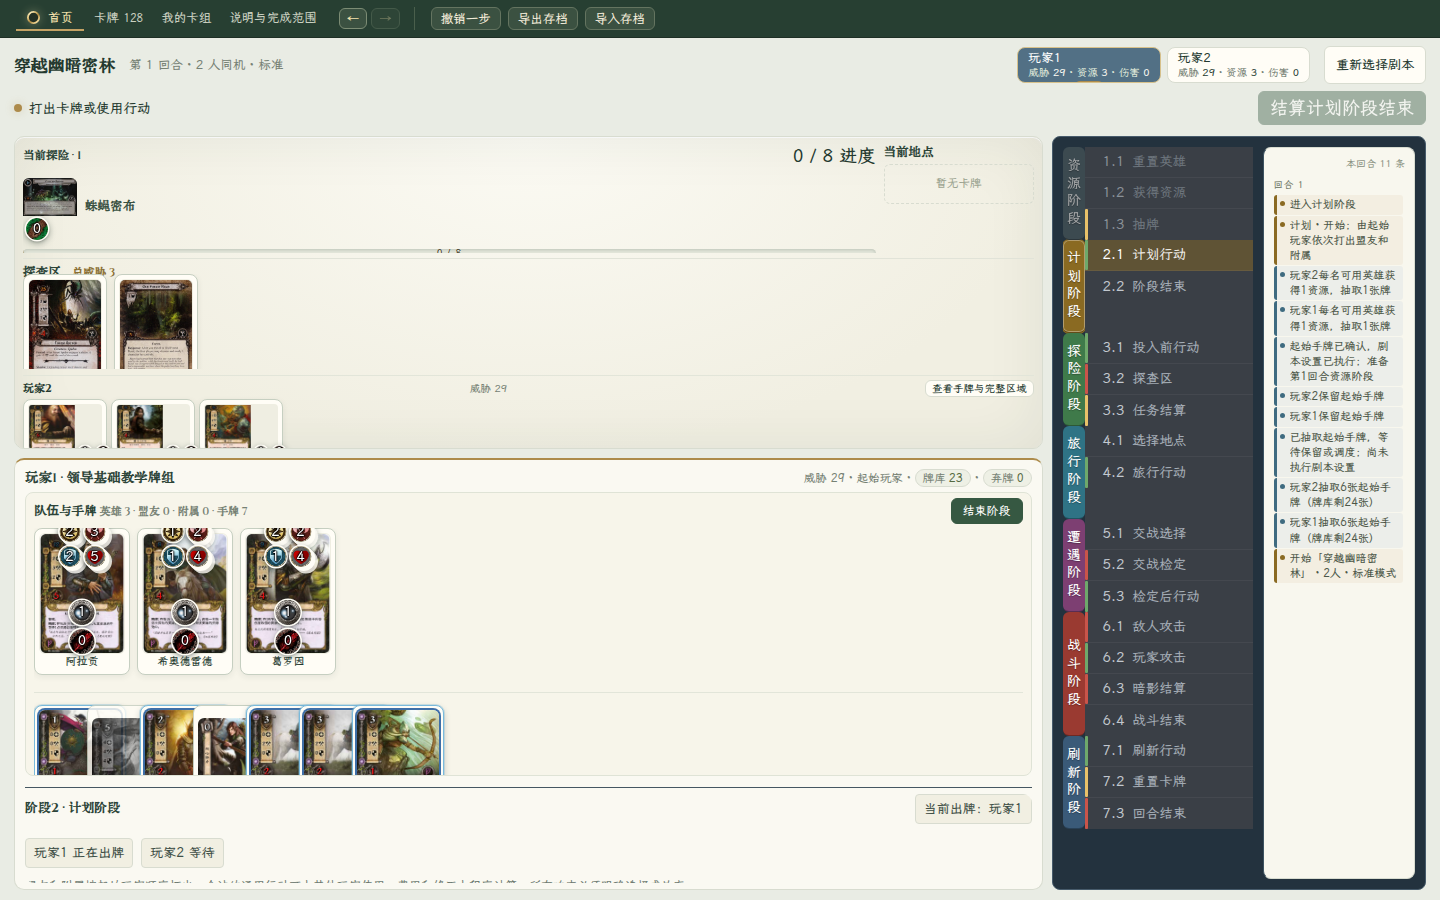
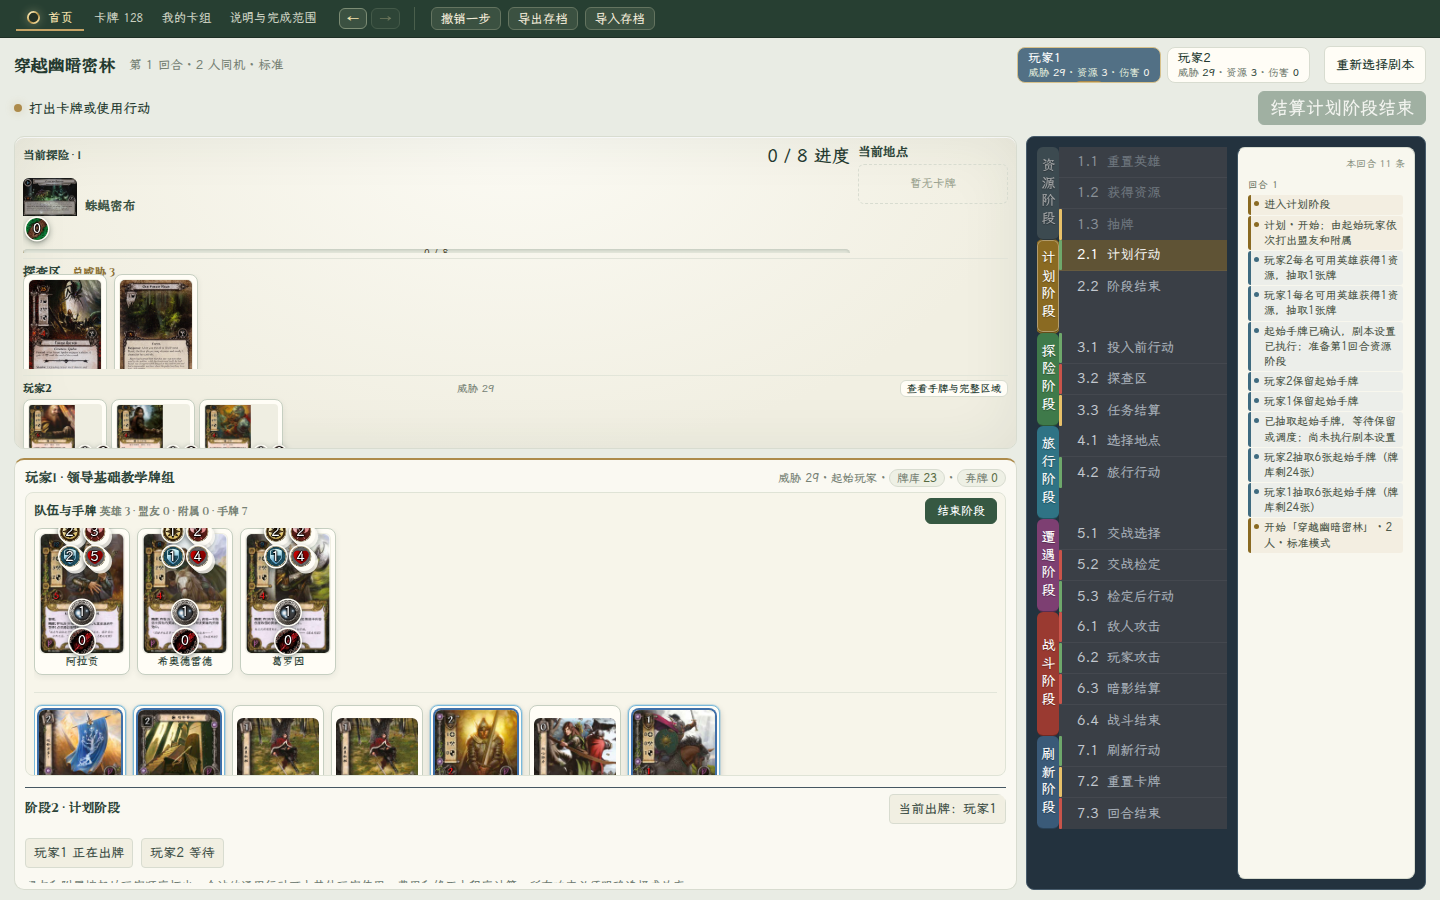
v0.15.61 玩家区与右栏不再互挤：手牌少就平铺、右栏加宽、阶段轴按屏高压缩到一次看全

Changed region(s): [[0.5312, 0.1556, 0.9688, 0.9956], [0.0312, 0.7778, 0.5, 0.8711], [0.3125, 0.4044, 0.3438, 0.4356]]

diff --git a/index.html b/index.html
@@ -107,7 +107,10 @@ body:has(.desktop-table) main{padding:16px 22px 32px}
 .operation-content .card-art{max-width:var(--card-w)}
 .rail-step{border-radius:6px}
 .deck-counts div{border-radius:6px}
-@media(min-width:1700px){:root{--card-w:140px}.table-card{width:var(--card-w);flex-basis:var(--card-w)}.peer-cards .table-card{width:var(--card-w);flex-basis:var(--card-w)}.tabletop-layout{grid-template-columns:minmax(0,1fr) 274px}}
+@media(min-width:1700px){:root{--card-w:140px}.table-card{width:var(--card-w);flex-basis:var(--card-w)}.peer-cards .table-card{width:var(--card-w);flex-basis:var(--card-w)}.tabletop-layout{grid-template-columns:minmax(0,1fr) 274px}
+/* v0.15.61：右栏原来在 1700+ 被压到 274px，比 1440 的 374px 还窄——
+   大屏上日志反而更难读。改为随视口增长，上限 460px。 */
+.tabletop-layout{grid-template-columns:minmax(0,1fr) clamp(374px,22vw,460px)}}
 @media(max-width:1100px){:root{--card-w:118px}.table-card{width:var(--card-w);flex-basis:var(--card-w)}.peer-cards .table-card{width:var(--card-w);flex-basis:var(--card-w)}}
 
 /* v0.14.5 operation dock as the single task bar: task label, confirmation
@@ -560,7 +563,10 @@ body:has(.desktop-table) .player-tabs button{height:36px;min-height:0;padding:2p
 /* ── 3. 四区网格 ─────────────────────────────────────────────────── */
 .tabletop-layout{
  display:grid;height:100%;min-height:0;gap:9px;
- grid-template-columns:minmax(0,1fr) clamp(320px,26vw,400px);
+ /* v0.15.61：右栏下限 320→400。实测 1440 下右栏 374px，其中阶段轴占 190px，
+   日志只剩 152px（文字实测 109px 宽）——一句话折成两行才放得下。
+   阶段轴本身 190px 够用（窗口编号 + 名称），多出来的宽度应该给日志。 */
+ grid-template-columns:minmax(0,1fr) clamp(400px,27vw,470px);
  /* v0.15.51：操作条去框后移到顶部通栏；右栏（阶段+日志）横跨两行，
     占据页面右侧全部高度。 */
  grid-template-rows:auto minmax(0,1fr) minmax(0,.92fr);
@@ -584,7 +590,10 @@ body:has(.desktop-table) .player-tabs button{height:36px;min-height:0;padding:2p
  grid-template-rows:minmax(0,1fr);
  background:#23323e;border:1px solid #475b6b;border-radius:8px;padding:10px}
 .tabletop-rail>.phase-rail-v{
- grid-column:1;grid-row:1;min-height:0;height:100%;overflow:auto}
+ grid-column:1;grid-row:1;min-height:0;height:100%;overflow:auto;
+ /* v0.15.61：显式声明为纵向 flex，让 .rail-grp 的 flex-grow 有作用对象。
+     不写这条时它是 block，flex-grow 被完全忽略，竖轴只到内容高（1920 下尾部空 230px）。 */
+ display:flex;flex-direction:column}
 .tabletop-rail>.table-log{grid-column:2;grid-row:1;min-height:0;min-width:0;
  border-left:1px solid #3d5361;padding-left:10px}
 /* v0.15.45：牌堆栏与说明框移除，右栏只剩竖轴 + 日志两列，日志直接占第二列 */
@@ -1123,7 +1132,10 @@ body:has(.desktop-table) .player-tabs button{height:36px;min-height:0;padding:2p
 /* 竖轴本体：连续的一条，阶段块首尾相接，中间不留缝 */
 .phase-log .phase-rail-v{
  display:flex;flex-direction:column;min-height:0;overflow:auto;
- scrollbar-width:none;border-radius:3px;background:#2b2f35}
+ scrollbar-width:none;border-radius:3px;background:#2b2f35;
+ /* 竖轴比内容高时（1920×1080 会空出约 230px），尾部用一层极淡的渐隐把「墙」收住，
+    避免看起来像被硬切断。纯装饰，不占布局、不接事件。 */
+ background-image:linear-gradient(to bottom,transparent calc(100% - 120px),rgba(0,0,0,.22))}
 .phase-log .phase-rail-v::-webkit-scrollbar{display:none}
 .rail-grp{display:grid;grid-template-columns:22px minmax(0,1fr);min-height:0;flex:0 0 auto}
 /* 手动收起的阶段：压成 15px 单行，只留窗口计数 */
@@ -1185,6 +1197,38 @@ body:has(.desktop-table) .player-tabs button{height:36px;min-height:0;padding:2p
 .rail-win.hit .rail-win-label{color:rgba(255,255,255,.9)}
 .rail-grp.past .rail-win .rail-win-no{color:#8a9198}
 .rail-grp.past .rail-win .rail-win-label{color:#6c747c}
+/* v0.15.61 短屏压缩：head 的 10px 上下内边距是 93px 高的元凶之一（竖排文字本身只有约 73px），
+   短屏收掉内边距与字号，整条竖轴才能跟着 win 行高一并降下来。 */
+@media(max-height:880px){
+ .rail-grp>.rail-head>span{padding:6px 0;font-size:12.5px;letter-spacing:3px}
+}
+@media(max-height:800px){
+ .rail-grp>.rail-head>span{padding:4px 0;font-size:12px;letter-spacing:2.5px}
+}
+@media(max-height:740px){
+ .rail-grp>.rail-head>span{padding:3px 0;font-size:11px;letter-spacing:2px}
+}
+/* v0.15.61：短屏自适应压缩行高。
+   20 条窗口 × 31px + 阶段头 = 682px 的内容高，只有 900px 以上的视口放得下；
+   1280×720 / 1366×768 / 1440×800 这些常见笔记本屏差 30~130px，只能滚动看——
+   而竖轴的价值就在「一眼看到当前在第几个窗口、后面还有什么」，滚动即失效。
+   这里按视口高度分档收行高：只压垂直留白与行高，不动字号，编号与窗口名照样读得清。
+   900px 以上维持 31px 原高度（分档用 max-height，不写 min-height，保证不反向覆盖大屏）。 */
+@media(max-height:880px){
+ .rail-wins{line-height:normal}
+ .rail-win{min-height:26px;line-height:25px;padding-right:6px}
+ .rail-win .rail-win-no{font-size:13px}
+ .rail-win .rail-win-label{font-size:12.5px}
+}
+@media(max-height:800px){
+ .rail-win{min-height:23px;line-height:22px}
+ .rail-win .rail-win-no{font-size:12px}
+ .rail-win .rail-win-label{font-size:12px}
+}
+@media(max-height:740px){
+ .rail-win{min-height:21px;line-height:20px}
+ .rail-win .rail-win-no,.rail-win .rail-win-label{font-size:11px}
+}
 /* 范围切换条：本回合 / 全部，以及当前条数。只用小号文字与细边，不抢阶段色带的视觉层级。 */
 .phase-log .log-bar{display:flex;align-items:center;gap:6px;min-width:0}
 .phase-log .log-scope{display:inline-flex;border:1px solid #d6dacd;border-radius:5px;overflow:hidden;background:#fdfcf5}
@@ -1408,6 +1452,22 @@ body:has(.desktop-table) .player-tabs button{height:36px;min-height:0;padding:2p
 .window-panel.compact>.window-blocked{color:#6d7a70}
 .window-panel.compact>.window-blocked>summary{color:#5c675a}
 .window-panel.compact>.window-blocked>summary:hover{color:#24392f}
+
+/* ── 19. 手牌：张数少就平铺，多了才扇叠（v0.15.61）────────────────────
+   原来一律扇叠（92px 宽、-46px 间距 + 7px gap），每张只露出约 53px，
+   等于只看得见卡图最左那条边。v0.15.58 好不容易让「付不起的牌变灰」，
+   可露出 53px 连费用都读不全，那个提示等于白做。
+   实测 1440 宽下玩家区手牌容器 989px，92px 卡 + 7px gap 平铺可容 10 张
+   （10×92+9×7=983）。取 9 张作为阈值留一格余量；到 10 张才扇叠。
+   用 :has() 数张数——:has(.hand-card:nth-child(10)) 命中即说明有 10 张以上。
+   这一段必须放在所有 .hand-card+.hand-card 扇叠定义之后才能覆盖它们。 */
+.player-mat .hand-zone:not(:has(.hand-card:nth-child(10))) .hand-card+.hand-card{margin-left:0}
+/* 开局弃牌态（.opening-panel）本来就是窄卡密排，不受上面这条影响——
+   它的规则在 1339 行，选择器带 :has(.mat-phase>.opening-panel)，优先级更高。 */
+/* 窄屏：容器实测 870px（1280 视口）只容得下 8 张，阈值下调一档避免溢出。 */
+@media(max-width:1360px){
+ .player-mat .hand-zone:not(:has(.hand-card:nth-child(9))) .hand-card+.hand-card{margin-left:0}
+}
 
 /* ── 窄屏顶栏（v0.15.49，须在单屏布局之后以覆盖其 nowrap）────────────
    390px 移动档：藏「威胁/资源」统计，顶栏允许换行，避免横向溢出。 */
@@ -10082,7 +10142,7 @@ const WindowUI=(()=>{
 </script><script src="phase-log.js"></script><script>
 /* Tabletop view: UI drafts never pay, exhaust, reveal, or bypass phase validation. */
 /* 界面版本徽标唯一来源：须与 CHANGELOG.md 最新条目标题一致（planning-dom-tests 有校验）。 */
-const APP_VERSION='v0.15.60';
+const APP_VERSION='v0.15.61';
 const DesktopUI=(()=>{
  const E=ScenarioEngine,R=E.planning,Q=E.questing,C=E.combat,esc=x=>String(x??'').replace(/[&<>"']/g,c=>({'&':'&amp;','<':'&lt;','>':'&gt;','"':'&quot;',"'":'&#39;'}[c]));
  let combatDraft={key:'',target:null,ids:[]},draftState=null;

diff --git a/CHANGELOG.md b/CHANGELOG.md
@@ -1,3 +1,20 @@
+# v0.15.61 · 让玩家区和右栏不再互相挤：手牌少就平铺、阶段轴一次看全（2026-10-25）
+
+- **问题一（手牌只露一条边）**：手牌一律扇叠——92px 卡宽、`-46px` 间距 + 7px gap，每张只露出约 53px。v0.15.58 刚让「付不起的牌变灰」，可 53px 连费用都读不全，那个提示等于白做。
+- **修法**：用 `:has()` 数张数，`< 10` 张平铺、`≥ 10` 张才扇叠：`.player-mat .hand-zone:not(:has(.hand-card:nth-child(10))) .hand-card+.hand-card{margin-left:0}`。阈值是按实测算的——1440 宽下容器 989px，`10×92+9×7=983`，正好容 10 张，取 9 作阈值留一格余量。1280 视口容器只有 870px（容 8 张），`max-width:1360px` 时阈值下调到 8。开局弃牌态（`.opening-panel` 的窄卡密排）选择器优先级更高，不受影响。
+- **问题二（右栏被挤）**：主网格右栏宽度 `clamp(320px,26vw,400px)`，1440 下实际 374px，其中阶段轴占 190px，日志只剩 152px——文字实测 109px 宽，一句话必折两行。更糟的是 `@media(min-width:1700px)` 把右栏写死成 `274px`，**大屏反而比 1440 更窄**。
+- **修法**：1700+ 断点改为 `clamp(374px,22vw,460px)`（随视口增长，上限 460）；主网格下限 320→400、上限 400→470。实测日志文字宽 109→135px（1280/1440）、167px（1600）、205px（1920），条目高 30px→15px，**不再折行**。
+- **问题三（阶段轴要滚才能看完）**：20 条窗口 × 31px + 阶段名色块 = 682px 内容高，只有 900px 以上的视口放得下；1280×720 / 1366×768 / 1440×800 这些常见笔记本屏分别差 130/82/50px，只能滚动看。而竖轴的全部价值就在「一眼看到当前在第几阶段的第几个窗口、后面还有什么」，一滚动就失效。
+- **修法**：按视口高度分档压缩垂直留白（`max-height` 断点，不写 `min-height`，保证不反向覆盖大屏）——
+  - `≤880px`：窗口行 31→26px、编号 13px、名称 12.5px；阶段名色块内边距 `10px 0`→`6px 0`、字号 14→12.5px。
+  - `≤800px`：行 23px、编号/名称 12px；色块内边距 `4px 0`、字号 12px。
+  - `≤740px`：行 21px、字号 11px；色块内边距 `3px 0`、字号 11px。
+  - **关键**：原以为压 `.rail-win` 的 `min-height` 就够了，实测行高仍是 31px——原因有三层：`.rail-wins` 继承的 `line-height:30.6px` 在撑 `min-height`（补 `line-height:normal`）；色块 `padding:10px 0` 把 head 顶到 93px，而 `.rail-grp` 是单行 grid，head 有多高整段就多高（改压内边距与字号）。三处一起改，内容高才真正降到 552px 以内。
+- **竖轴尾部**：1920×1080 下竖轴 912px 而内容只有 682px，尾部空出 230px，看起来像「断了一截」。改成用一层 120px 的渐隐收尾（`background-image:linear-gradient`）把「墙」收住。**刻意没有**让 7 个阶段 flex-grow 平分剩余空间——试过，会把每个阶段内部撕出十几像素空白，行与行不再连续，比断尾更难看。
+- **实测**：`railNeed`（竖轴是否需要滚动）在 1280×720 / 1366×768 / 1440×800 / 1440×900 / 1920×1080 **五档全部 false**；日志 `logNeed` 同样全部 false；`docOver` 全为 0（整页不出现纵向滚动条）。
+- **回归**：check-window-skip 8/8、check-auto-phase PASS、check-onescreen / check-taskbar / check-affordable / check-history / check-layout / check-contrast 全 PASS；tests.cjs 25/25；31 个内联脚本块 `node --check` 全通过。
+- **验收截图**：`docs/browser-acceptance/v01561-1366x768.png`、`v01561-1440x900.png`、`v01561-1920x1080.png`，及右栏特写 `v01561-rail-*.png`。
+
 # v0.15.60 · 窗口静默改成「跳过这一次」，并且把不能用的理由说出来（2026-10-25）
 
 - **问题一（静默失忆）**：`window-engine.js` 的 `mute()` 只会往 `windowPrefs.muted` 里追加一条记录，key 是 `回合:阶段:kind:玩家:uid`，而语义上它被当成了「永久静默」——一旦写过，同一个能力整局不再提示，想反悔只能按「恢复本阶段能力提醒」全清（连本来想留的记录一起冲掉）。玩家实际想要的是「这一次不用问我」，不是「以后都别问」。
